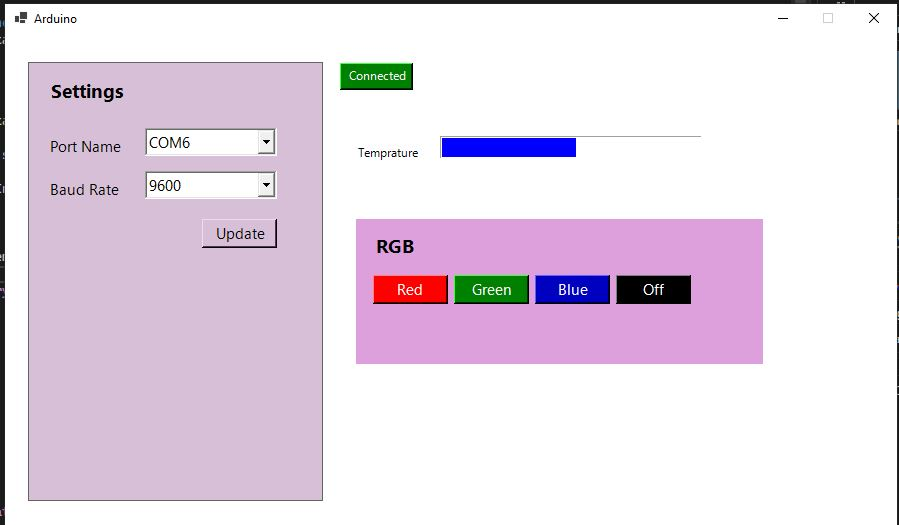
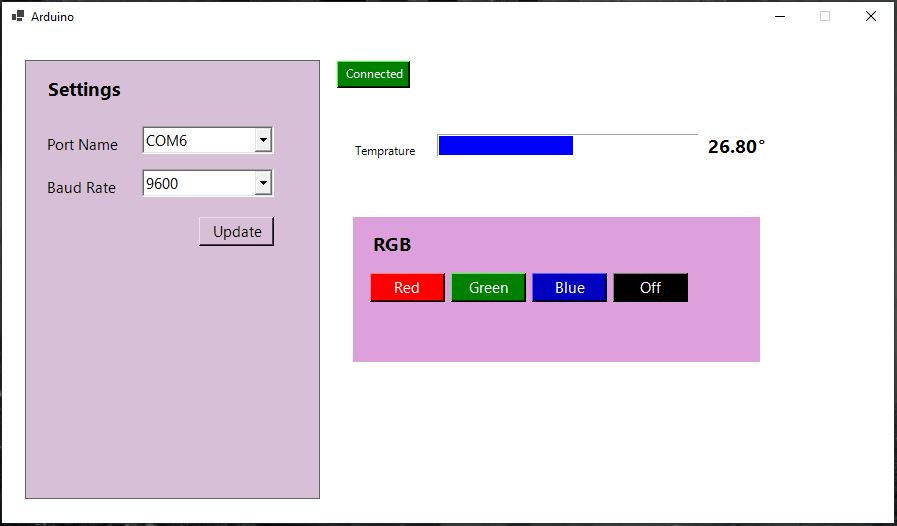
label added for the temprature to display value

diff --git a/ArduinoWindows/frmDevice.Designer.cs b/ArduinoWindows/frmDevice.Designer.cs
@@ -44,6 +44,7 @@
             btnGreen = new Button();
             btnRed = new Button();
             label5 = new Label();
+            lblTemp = new Label();
             pnlConfig.SuspendLayout();
             panel1.SuspendLayout();
             SuspendLayout();
@@ -227,12 +228,23 @@
             label5.TabIndex = 1;
             label5.Text = "RGB";
             // 
+            // lblTemp
+            // 
+            lblTemp.AutoSize = true;
+            lblTemp.Font = new Font("Segoe UI", 14.25F, FontStyle.Bold, GraphicsUnit.Point);
+            lblTemp.Location = new Point(703, 100);
+            lblTemp.Name = "lblTemp";
+            lblTemp.Size = new Size(23, 25);
+            lblTemp.TabIndex = 9;
+            lblTemp.Text = "0";
+            // 
             // frmDevice
             // 
             AutoScaleDimensions = new SizeF(7F, 15F);
             AutoScaleMode = AutoScaleMode.Font;
             BackColor = Color.White;
             ClientSize = new Size(892, 491);
+            Controls.Add(lblTemp);
             Controls.Add(panel1);
             Controls.Add(btnConnect);
             Controls.Add(label4);
@@ -269,5 +281,6 @@
         private Button btnGreen;
         private Button btnRed;
         private Button btnOff;
+        private Label lblTemp;
     }
 }

diff --git a/ArduinoWindows/frmDevice.cs b/ArduinoWindows/frmDevice.cs
@@ -8,7 +8,7 @@ namespace ArduinoWindows
     {
         private static SerialPort serialPort;
         private delegate void SafeDisplay(string val);
-
+        private const char degree = '\u00B0';
         private readonly int[] baudRates = new int[] { 110, 300, 1200, 2400, 4800, 9600, 14400, 19200, 38400, 57600, 115200, 128000, 256000 };
 
         public frmDevice()
@@ -28,6 +28,15 @@ namespace ArduinoWindows
         private void OnDataReceived(object sender, SerialDataReceivedEventArgs e)
         {
             string data = serialPort.ReadLine();
+
+            if (lblTemp.InvokeRequired)
+            {
+                lblTemp.Invoke(new SafeDisplay((data) =>
+                {
+                    lblTemp.Text = data + degree;
+
+                }),new object[] {data});
+            }
 
             if (pbarTemp.InvokeRequired)
             {
